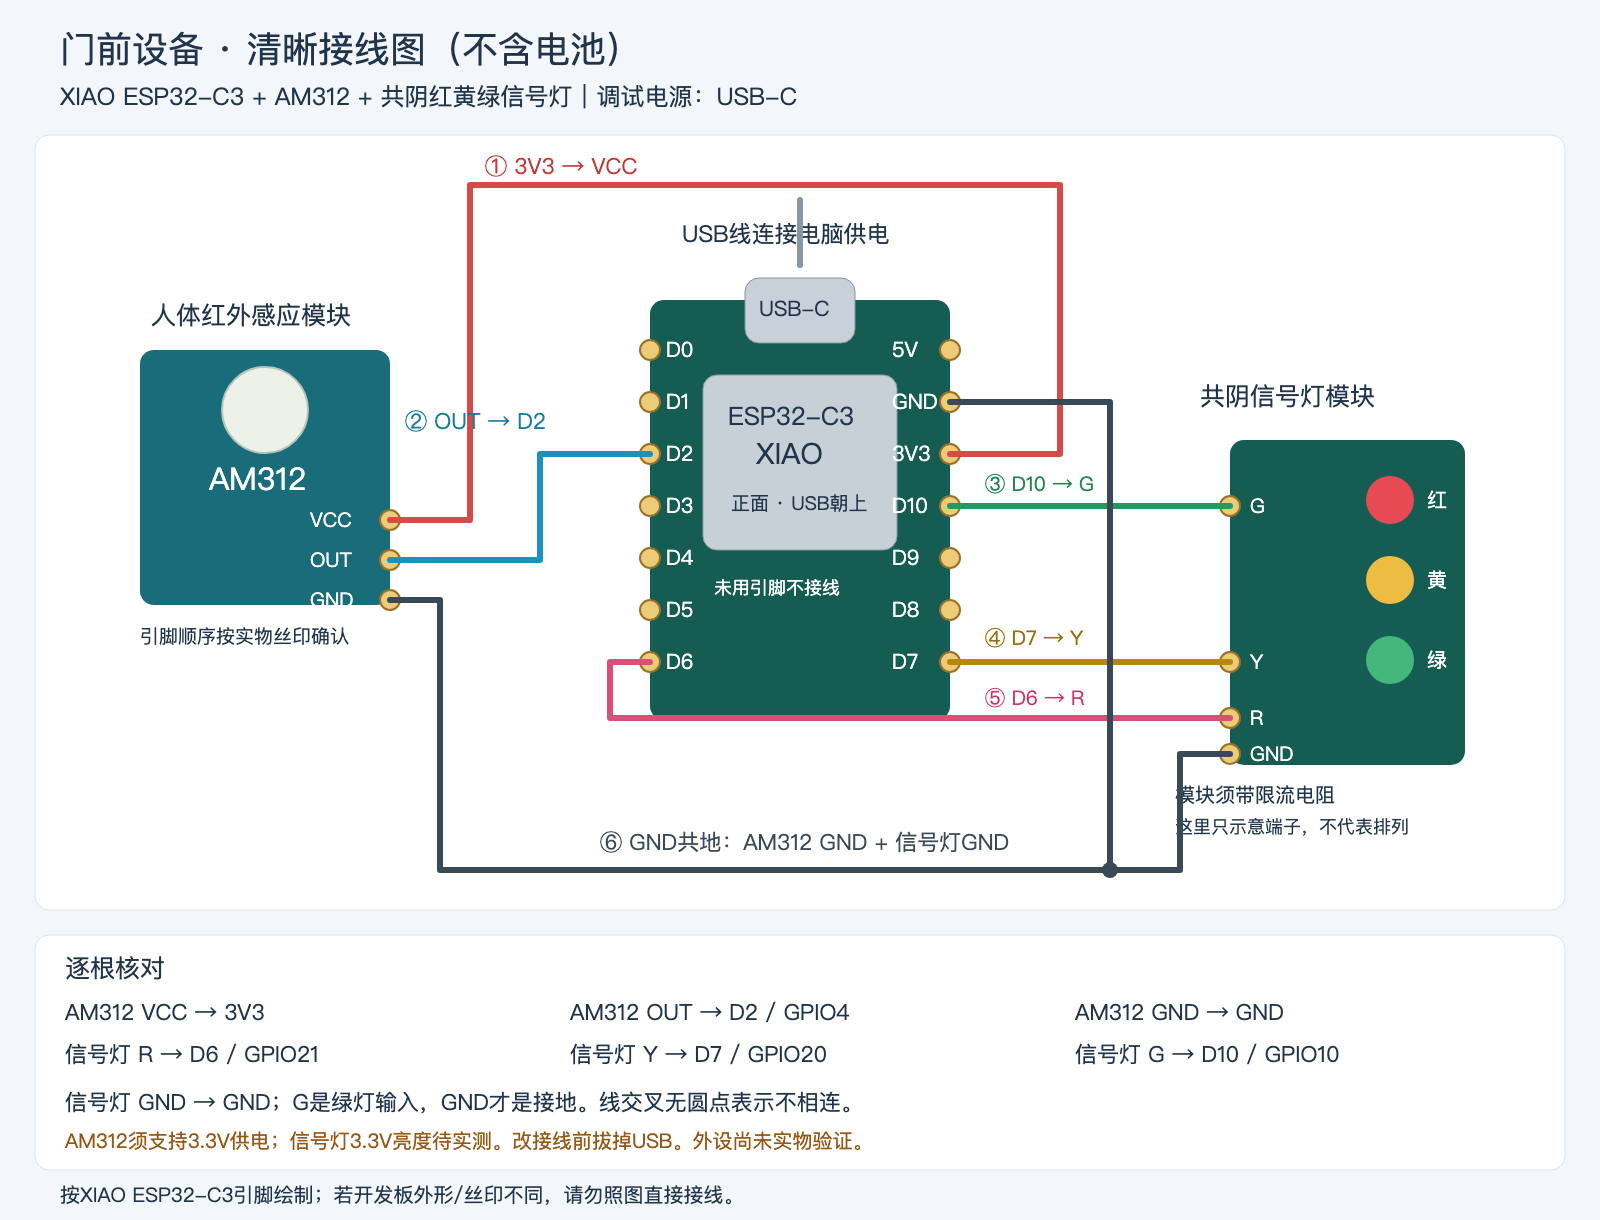
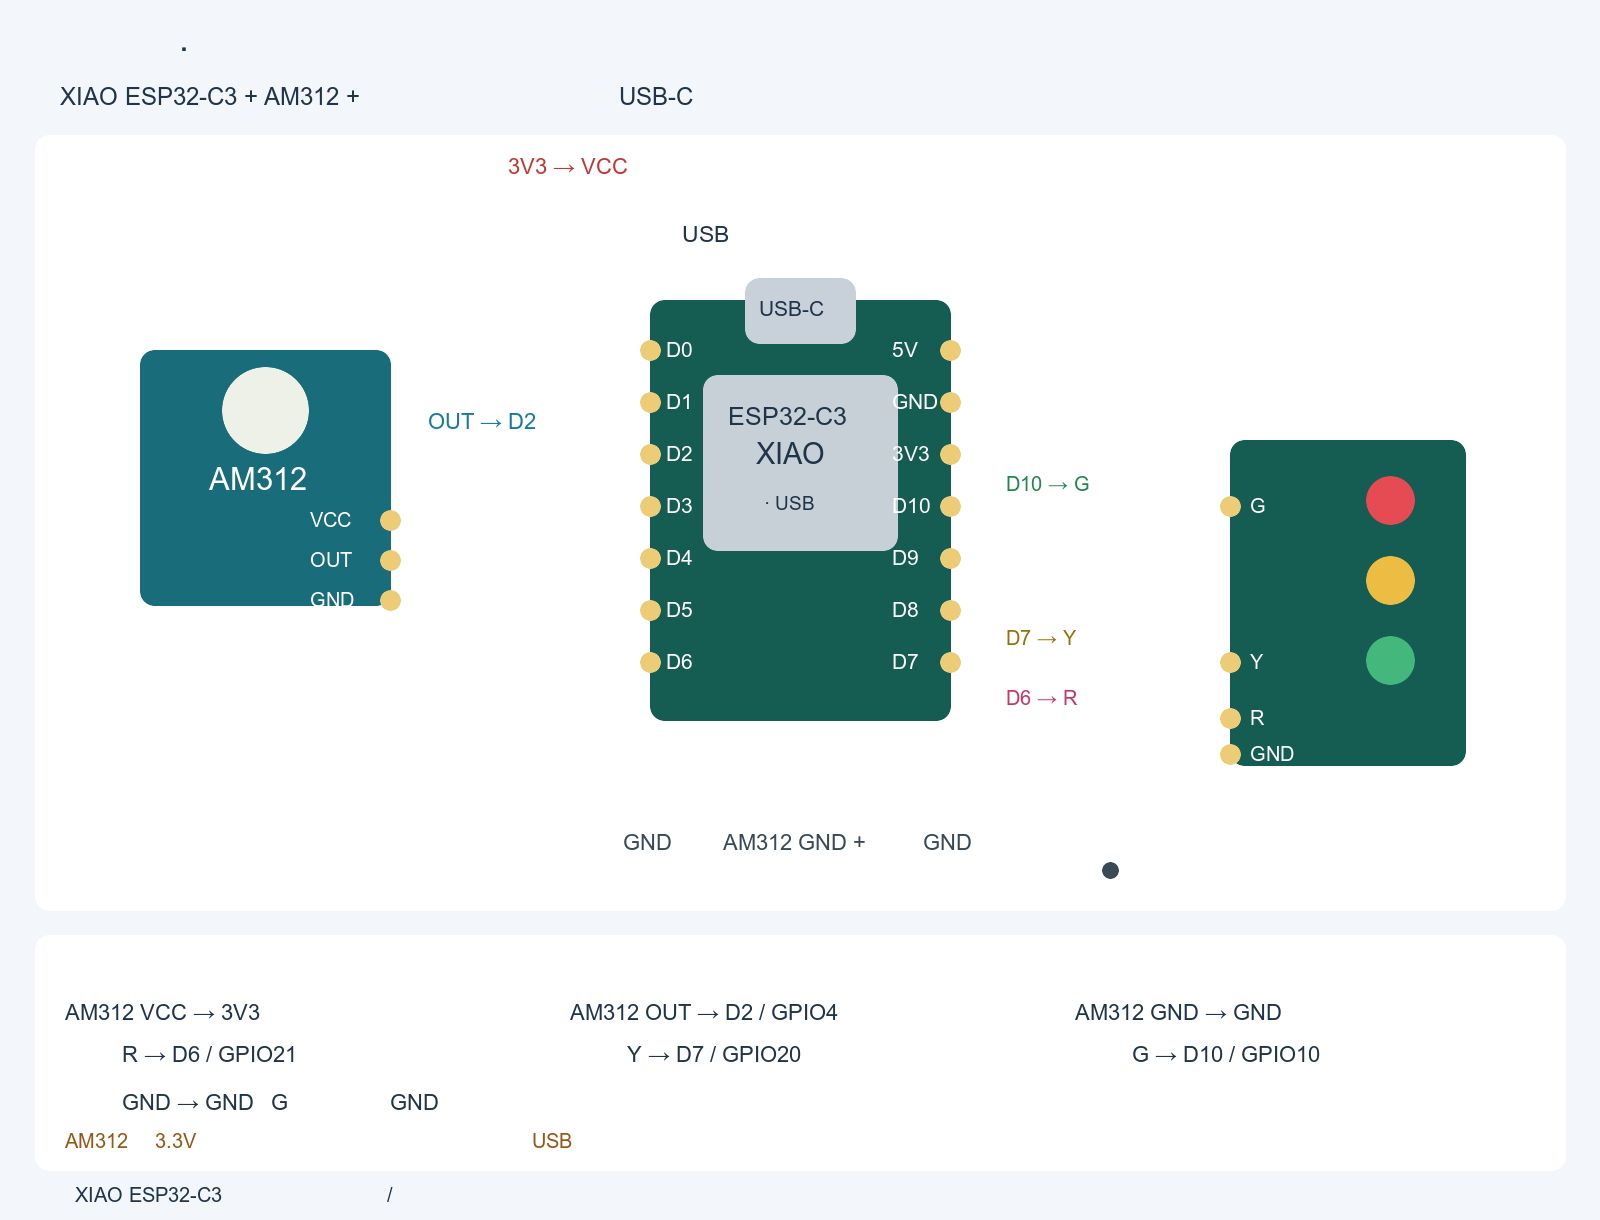
补充仓库说明、购买链接和门前门外接线图。
公开前让接线图与已经测通的 3.3V 接法一致。

diff --git a/docs/front-wiring.html b/docs/front-wiring.html
@@ -94,6 +94,6 @@
 <text x="570" y="1062" style="font-size:22px;fill:#20354b">信号灯 Y → D7 / GPIO20</text>
 <text x="1075" y="1062" style="font-size:22px;fill:#20354b">信号灯 G → D10 / GPIO10</text>
 <text x="65" y="1110" style="font-size:22px;fill:#20354b">信号灯 GND → GND；G是绿灯输入，GND才是接地。线交叉无圆点表示不相连。</text>
-<text x="65" y="1148" style="font-size:20px;fill:#965814">AM312须支持3.3V供电；信号灯3.3V亮度待实测。改接线前拔掉USB。外设尚未实物验证。</text>
+<text x="65" y="1148" style="font-size:20px;fill:#965814">AM312 接 3.3V。信号灯为共阴且须自带限流电阻。改接线前拔掉 USB。</text>
 <text x="60" y="1202" style="font-size:20px;fill:#20354b">按XIAO ESP32-C3引脚绘制；若开发板外形/丝印不同，请勿照图直接接线。</text>
 </svg>

diff --git a/docs/rear-wiring.html b/docs/rear-wiring.html
@@ -74,6 +74,6 @@
 <text x="760" y="896" style="font-size:24px;fill:#2679d6">D4 → SDA</text>
 <text x="1110" y="896" style="font-size:24px;fill:#9854be">D5 → SCL</text>
 <text x="60" y="941" style="font-size:22px;fill:#a26210">* 电源为3.3V初步联调方案，不能仅凭照片确认整板额定参数；勿改接5V。</text>
-<text x="60" y="980" style="font-size:21px;fill:#20354b">INT留空；LPn先留空，若通信扫描失败再核对其上拉电路。未验证实际测距。</text>
+<text x="60" y="980" style="font-size:21px;fill:#20354b">INT 与 LPn 留空。VIN 只接 3V3，不要改接 5V。</text>
 <text x="55" y="1045" style="font-size:21px;fill:#20354b">两块主板之间使用ESP-NOW无线通信，不接导线、不共地；改接线前断开USB。</text>
 </svg>

diff --git a/README.md b/README.md
@@ -1,0 +1,63 @@
+# 门后有人提示器
+
+两块 [Seeed Studio XIAO ESP32-C3](https://www.seeedstudio.com/Seeed-XIAO-ESP32C3-p-5431.html) 组成一套开门提醒。门后板用 VL53L5CX 做 8×8 测距，判断门后是否有前景物体；门前板用红、黄、绿三色灯把结果亮出来。两块板通过加密 ESP-NOW 直连，不连接路由器，也不需要在两块板之间拉线。
+
+灯的含义：
+
+- **红灯**：门后检测到前景物体。
+- **绿灯**：当前检测规则没有检测到前景。
+- **黄灯闪烁**：未知。无线中断、传感器未就绪、数据超过 1 秒、有效区域不足或正在校准时都是黄灯。未知状态不会亮成绿灯。
+
+绿灯只表示这套几何规则没有检出目标，不表示门外一定没有人。开门时仍要自己看。
+
+当前配套固件在 [`firmware/door-guard`](firmware/door-guard)。检测规则、桌面模式和装到门框后的空场校准写在 [固件说明](firmware/door-guard/README.md)。
+
+## 硬件
+
+| 数量 | 零件 | 购买 |
+| --- | --- | --- |
+| 2 | Seeed Studio XIAO ESP32-C3 | [Seeed 官方](https://www.seeedstudio.com/Seeed-XIAO-ESP32C3-p-5431.html) |
+| 1 | VL53L5CX 8×8 测距模块 | [Pololu #3417](https://www.pololu.com/product/3417) |
+| 1 | AM312 微型人体红外模块，需能在 3.3V 工作 | [TinyTronics AM312](https://www.tinytronics.nl/en/sensors/motion/ir-pyroelectric-infrared-pir-motion-sensor-detector-module-mini) |
+| 1 | 共阴红黄绿信号灯，高电平点亮，模块自带限流电阻 | [Cytron 交通灯模块](https://www.cytron.io/p-traffic-light-led-module) |
+
+调试时两块板都用 USB-C 供电。排针要焊牢，不能只把杜邦线插在孔里。改接线前先拔掉 USB。
+
+下面两张接线图按这块六针测距模块绘制，引脚从上到下是 VIN、GND、SCL、SDA、INT、LPn。Pololu #3417 是同一颗传感器的载板，引脚排列不同，买到后按载板丝印接线，不要照着这张图的孔位插。信号灯和红外模块也以板上的字母为准，不按灯珠排列或导线颜色判断。
+
+## 门后接线
+
+开发板正面朝向自己，USB 朝上。测距模块 VIN 接 3V3，不要接 5V。INT 和 LPn 留空。
+
+![门后接线：XIAO ESP32-C3 与 VL53L5CX](docs/rear-wiring.png)
+
+| 测距模块 | XIAO ESP32-C3 |
+| --- | --- |
+| VIN | 3V3 |
+| GND | GND |
+| SCL | D5 / GPIO7 |
+| SDA | D4 / GPIO6 |
+| INT | 不接 |
+| LPn | 不接 |
+
+## 门前接线
+
+开发板正面朝向自己，USB 朝上。AM312 的 VCC 接 3V3。信号灯是共阴：R、Y、G 是三色输入，GND 才是地。模块上如果把绿灯和地都标成 G，先对一下丝印，地线接到 GND。
+
+![门前接线：XIAO ESP32-C3、AM312 与共阴信号灯](docs/front-wiring.png)
+
+| 外设 | XIAO ESP32-C3 |
+| --- | --- |
+| AM312 VCC | 3V3 |
+| AM312 OUT | D2 / GPIO4 |
+| AM312 GND | GND |
+| 信号灯 R | D6 / GPIO21 |
+| 信号灯 Y | D7 / GPIO20 |
+| 信号灯 G | D10 / GPIO10 |
+| 信号灯 GND | GND |
+
+## 烧录
+
+在 `firmware/door-guard` 里用 PlatformIO 分别构建 `rear` 和 `front`。两块板的角色由 MAC 地址绑定，烧到错误的板子上不会启用无线配对。重插 USB 后串口名称会变，烧录前先读芯片 MAC。
+
+配对密钥在 `firmware/door-guard/include/pairing_keys.h`，没有放进仓库。两块板必须使用同一份密钥，更换后要一起重烧。
